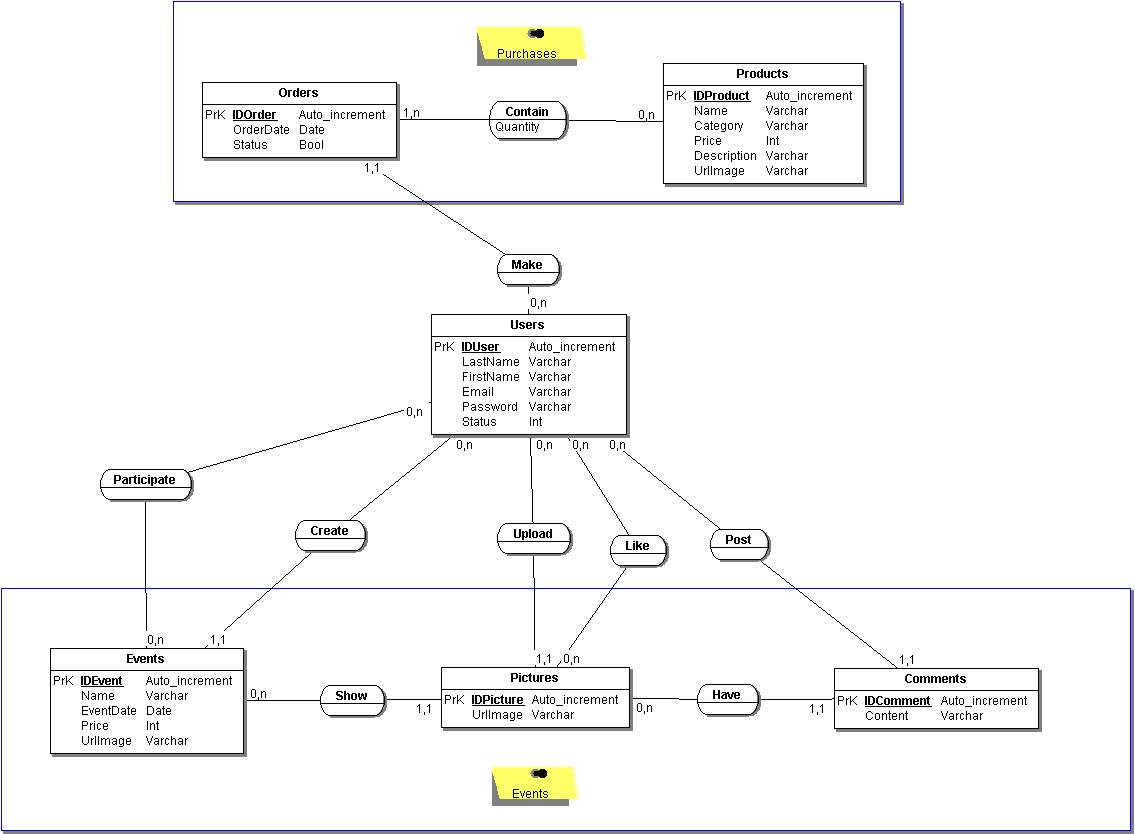
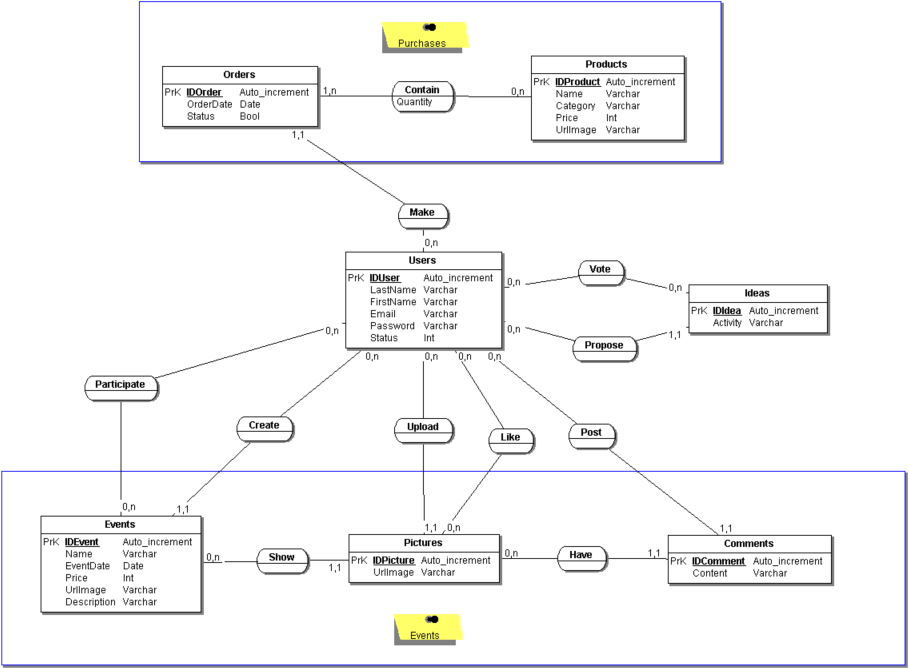
MCD and doc modifs

diff --git a/BDE-CESI.fr/footer.php b/BDE-CESI.fr/footer.php
@@ -1,7 +1,7 @@
 <!DOCTYPE HTML>
 <html>
     <footer>
-		<p>bdesaintnazaire@viacesi.fr                  <a href="#">Mentions Légales</a> </p>
+		<p>bdesaintnazaire@viacesi.fr <a href="#">Mentions Légales</a> <br> <a href="accueil.php">Retour à l'accueil</a></p>
     </footer>
  
 </html>
